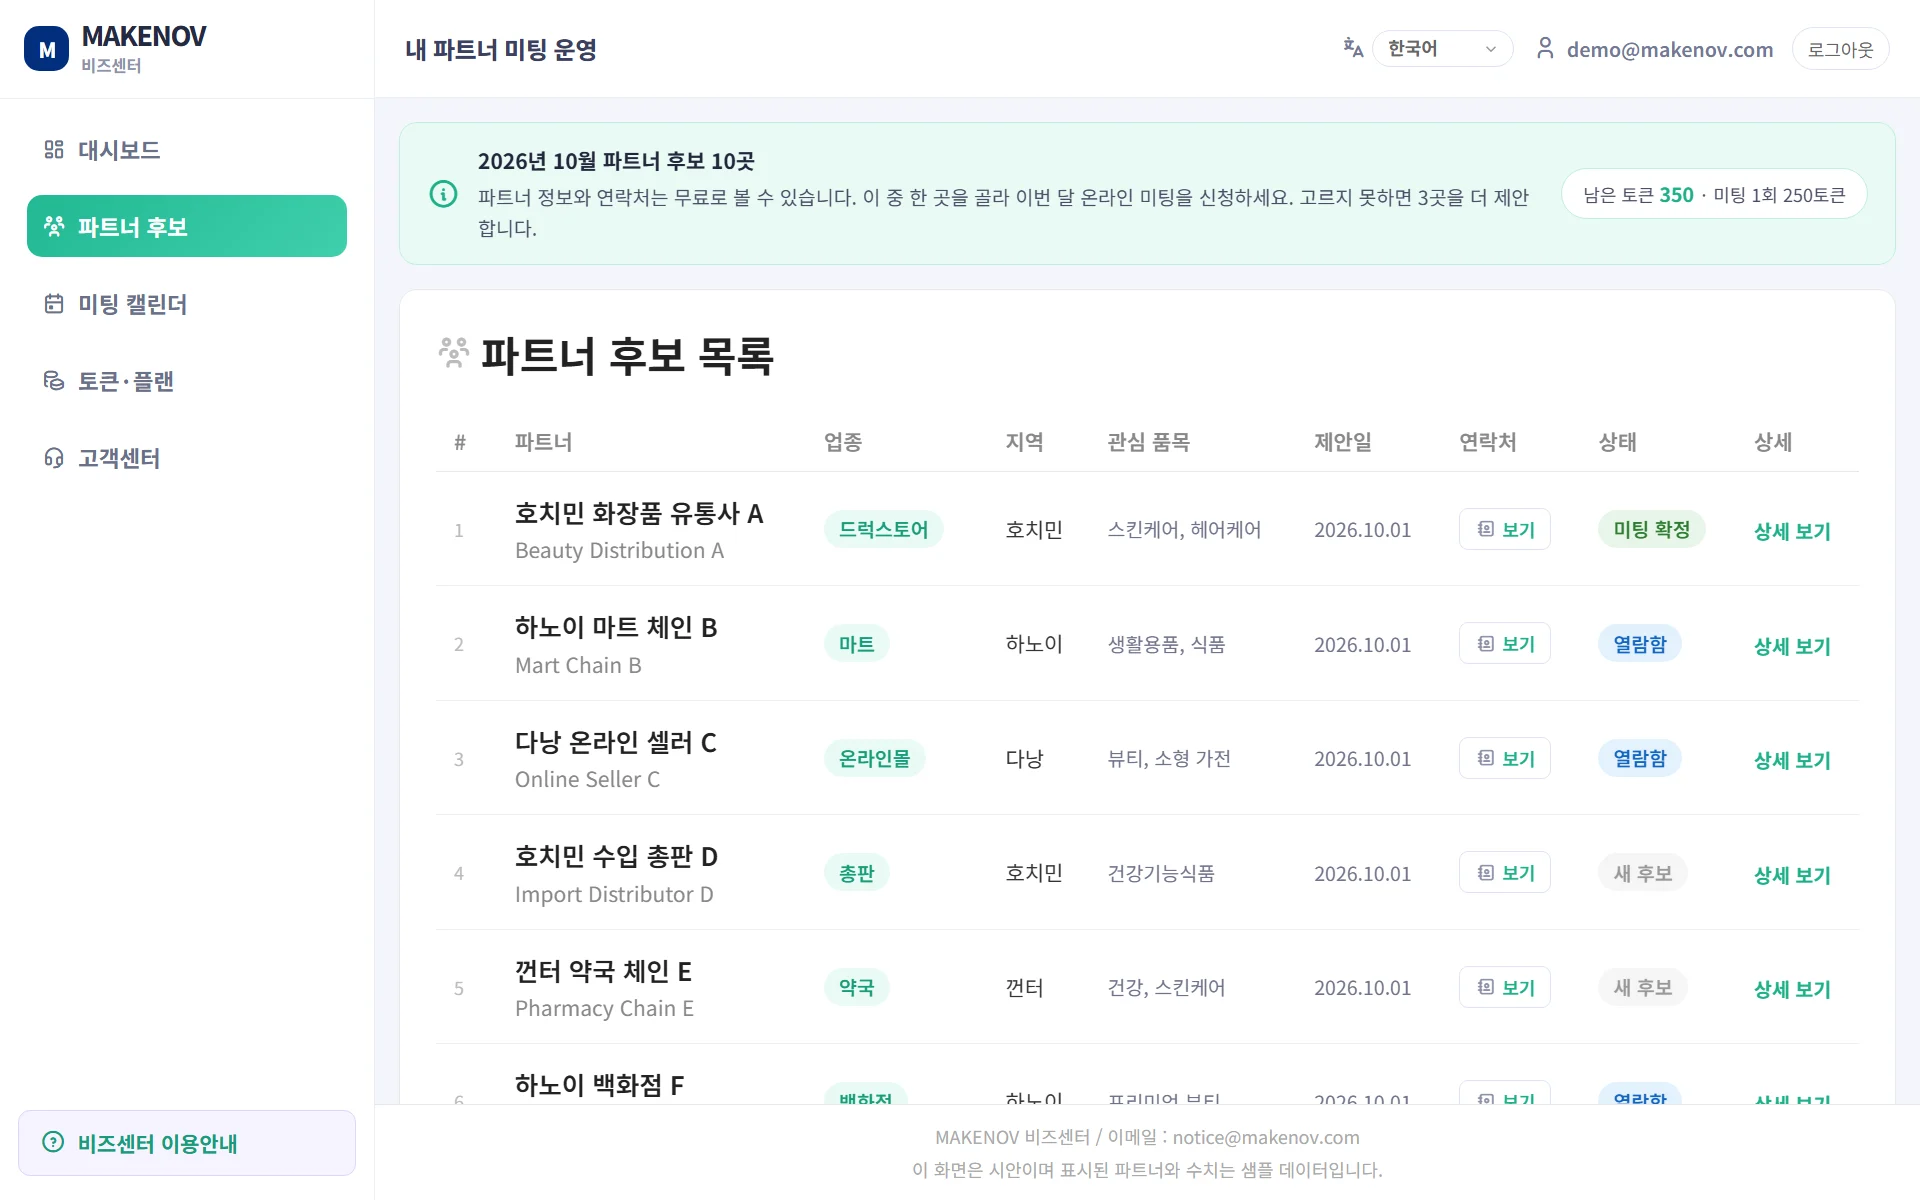
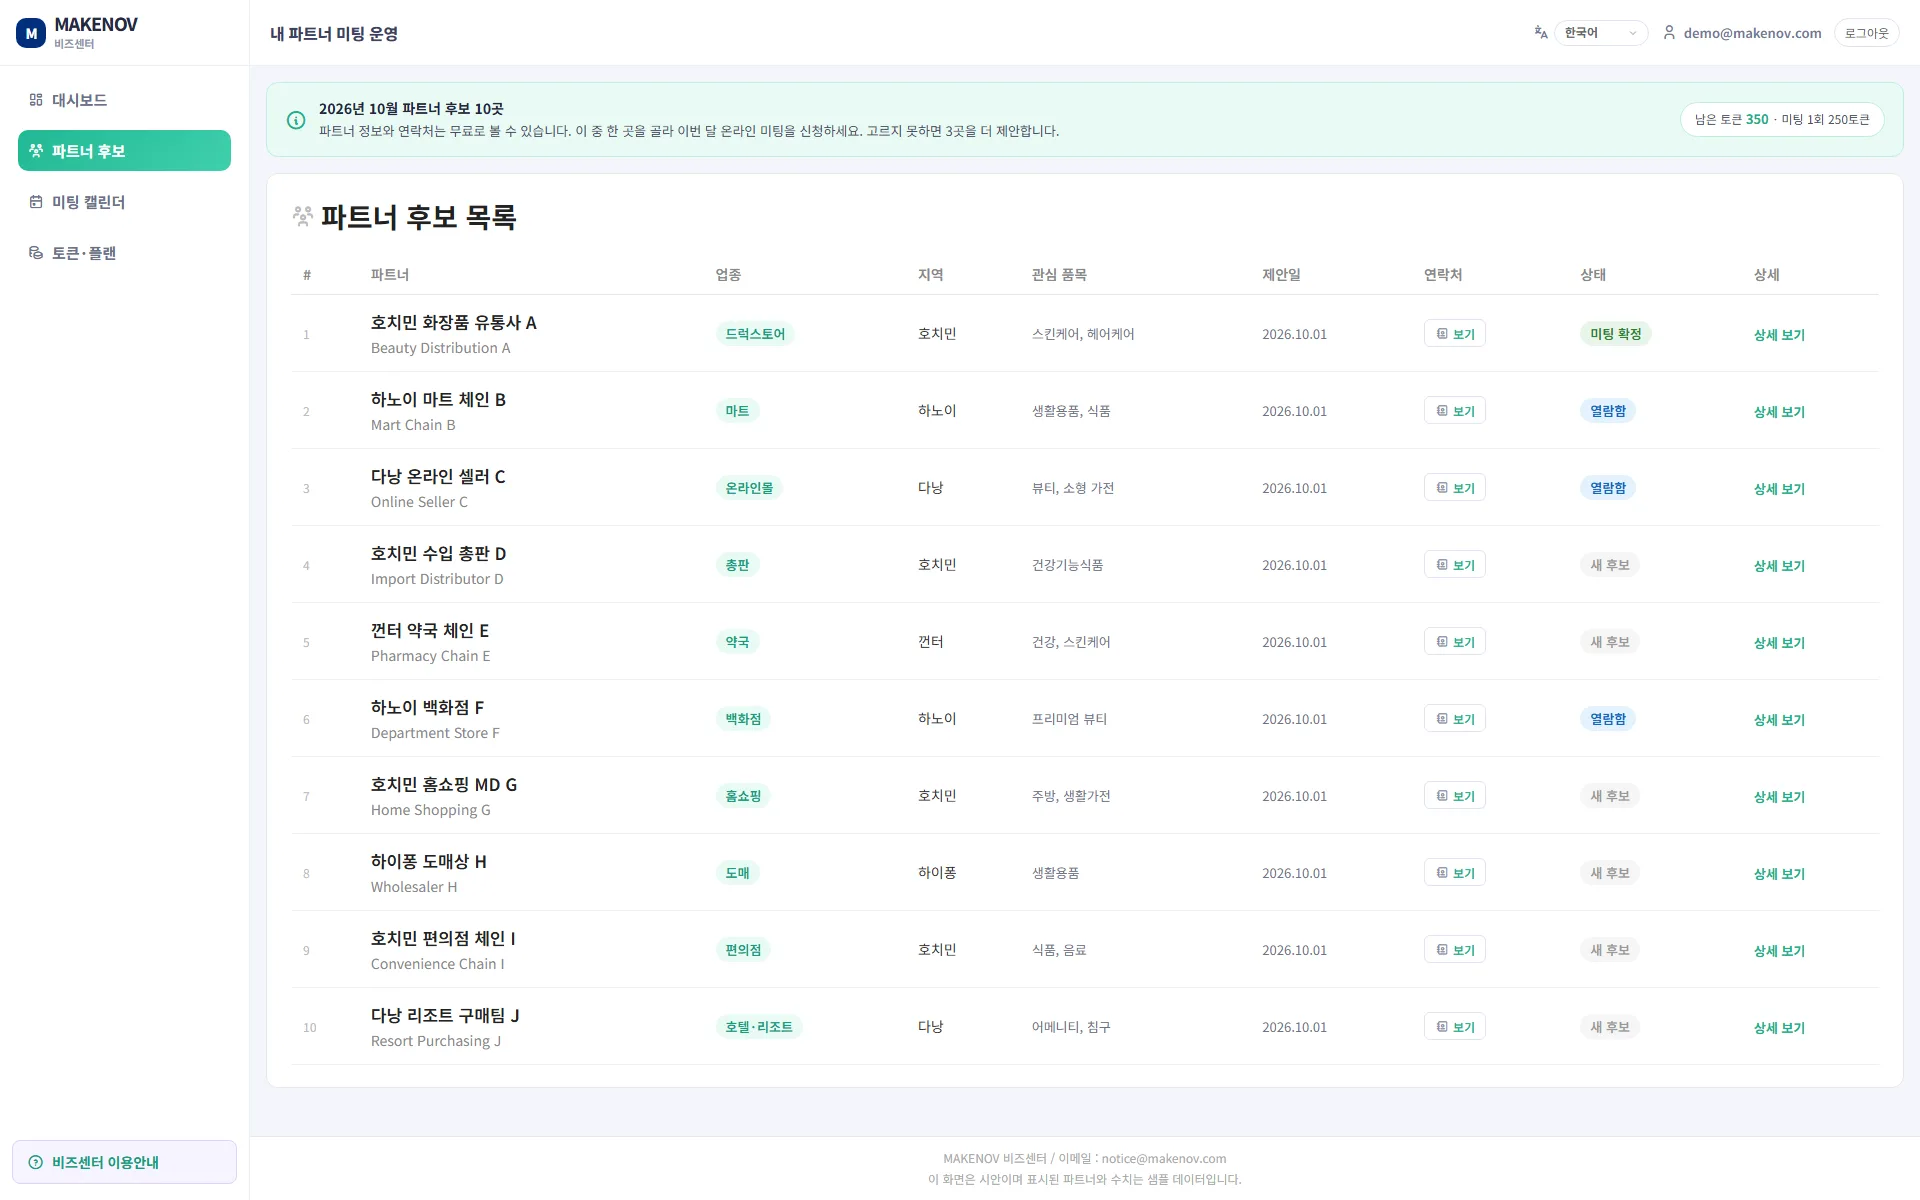
랜딩 연결 방식 섹션 추가, 비즈센터 화면 캡처 최신화

diff --git a/biz/index.html b/biz/index.html
@@ -141,7 +141,33 @@ section{scroll-margin-top:72px}
 .pane .shot{border-radius:16px;overflow:hidden;border:1px solid var(--line);box-shadow:0 18px 40px rgba(4,20,63,.08)}
 .pane .shot img{width:100%;aspect-ratio:16/10;object-fit:cover;object-position:top left}
 
-/* 4. 비즈센터 */
+/* 4. 연결 방식 */
+.sys{padding:130px 0 0;background:linear-gradient(180deg,#fff 0%,#f3fbf8 55%,#fff 100%);overflow:hidden}
+.sys-head{text-align:center;max-width:780px;margin:0 auto}
+.sys-head h2{font-size:56px;line-height:1.22;font-weight:800;letter-spacing:-.045em;margin-top:16px}
+.sys-head h2 em{font-style:normal;background:linear-gradient(90deg,var(--pri-d),var(--navy));-webkit-background-clip:text;background-clip:text;color:transparent}
+.sys-head p{font-size:19px;line-height:1.7;color:var(--body);margin-top:20px}
+.flowline{list-style:none;display:grid;grid-template-columns:repeat(4,1fr);gap:20px;margin-top:72px;position:relative}
+.flowline::before{content:"";position:absolute;left:12%;right:12%;top:63px;height:2px;background:repeating-linear-gradient(90deg,var(--pri) 0 10px,transparent 10px 18px);background-size:36px 2px;animation:flow 1.2s linear infinite;opacity:.6}
+@keyframes flow{to{background-position:36px 0}}
+.flowline li{position:relative;background:#fff;border:1px solid var(--line);border-radius:24px;padding:28px 26px 30px;text-align:center;box-shadow:0 14px 34px rgba(4,20,63,.05);transition:transform .2s}
+.flowline li:hover{transform:translateY(-4px)}
+.flowline .no{display:block;font-size:13px;font-weight:800;color:var(--muted);letter-spacing:.06em}
+.flowline .ic{width:64px;height:64px;margin:14px auto 0;border-radius:20px;background:var(--pri-soft);color:var(--pri-d);display:flex;align-items:center;justify-content:center;font-size:30px;position:relative;z-index:1}
+.flowline b{display:block;font-size:22px;font-weight:800;letter-spacing:-.02em;margin-top:20px}
+.flowline p{font-size:15.5px;line-height:1.7;color:var(--body);margin-top:10px}
+.flowline li.end{background:linear-gradient(160deg,var(--navy),var(--navy-dd));border-color:transparent;color:#fff;box-shadow:0 24px 50px rgba(4,20,63,.25)}
+.flowline li.end .no{color:var(--mint)}
+.flowline li.end .ic{background:var(--mint);color:var(--navy-dd)}
+.flowline li.end p{color:rgba(255,255,255,.75)}
+.sys-shot{position:relative;max-width:1040px;margin:80px auto 0;border-radius:20px 20px 0 0;overflow:hidden;background:#fff;border:1px solid var(--line);border-bottom:0;box-shadow:0 -10px 60px rgba(4,20,63,.12)}
+.sys-shot .bar{height:36px;background:#eef1f6;display:flex;align-items:center;gap:6px;padding:0 14px}
+.sys-shot .bar i{width:10px;height:10px;border-radius:50%;background:#d5dae3}
+.sys-shot .bar span{margin-left:12px;font-size:12px;color:#8a8f9c;background:#fff;border-radius:6px;padding:3px 12px}
+.sys-shot img{width:100%;aspect-ratio:16/8;object-fit:cover;object-position:top}
+.sys-shot .cap{position:absolute;left:50%;bottom:28px;transform:translateX(-50%);display:flex;align-items:center;gap:8px;background:var(--navy-dd);color:#fff;font-size:15px;font-weight:700;border-radius:999px;padding:12px 22px;box-shadow:0 12px 30px rgba(4,20,63,.3);white-space:nowrap}
+.sys-shot .cap i{color:var(--mint);font-size:18px}
+/* 4. 비즈센터 (구) */
 .split{display:grid;grid-template-columns:1fr 1.25fr;gap:64px;align-items:center}
 .split + .split{margin-top:96px}
 .split.rev .txt{order:2}
@@ -280,6 +306,7 @@ body.mopen .mnav{opacity:1;visibility:visible;transform:none}
 @media(max-width:1180px){.hd .slg{display:none}}
 @media(max-width:1080px){.hd nav{display:none}}
 @media(max-width:860px){
+  .sys{padding-top:80px}.sys-head h2{font-size:34px}.sys-head p{font-size:16px}.flowline{grid-template-columns:1fr 1fr;gap:12px;margin-top:44px}.flowline::before{display:none}.flowline li{padding:22px 16px}.flowline b{font-size:18px}.flowline p{font-size:14px}.sys-shot{margin-top:48px}.sys-shot .cap{font-size:13px;bottom:16px;padding:10px 16px}
   .kf{padding:80px 0}.kf-in{grid-template-columns:1fr;gap:40px}.kf h2{font-size:30px}.kf-logo{height:30px}.kf-facts li{flex-direction:column;gap:4px}.kf-facts span{text-align:left}.kf-gal{grid-template-rows:180px 130px 130px}
   .mkt{grid-template-columns:1fr;gap:24px}.mcard{padding:32px 24px}.mcard h3{font-size:26px}.sols h4{font-size:19px}
   .nums-h{font-size:26px;margin-bottom:36px}
@@ -443,11 +470,23 @@ body.mopen .mnav{opacity:1;visibility:visible;transform:none}
 </section>
 
 <!-- 4. 비즈센터 -->
-<section class="sec" id="bizcenter">
+<section class="sys" id="bizcenter">
   <div class="wrap">
-    <div class="split">
-      <div class="txt"><div class="kick">비즈센터</div><h3>누구를 만났고<br>다음엔 뭘 할지 다 있습니다</h3><p>파트너 후보, 미팅 일정, 회의록, 남은 토큰을 한곳에서 봅니다. 메일과 메신저를 뒤질 필요가 없습니다.</p></div>
-      <div class="shot"><img src="img/shot/index.webp" alt="비즈센터 대시보드"></div>
+    <div class="sys-head">
+      <div class="kick">메이크노브 연결 방식</div>
+      <h2>해외영업 고민,<br><em>연결</em>까지 한 번에 끝냅니다</h2>
+      <p>파트너를 찾는 일부터 실제로 만나게 하는 일까지, 메이크노브가 순서대로 이어 드립니다.</p>
+    </div>
+    <ol class="flowline">
+      <li><span class="no">01</span><span class="ic"><i class="ti ti-database"></i></span><b>파트너 풀</b><p>베트남 현지 파트너 정보가 메이크노브에 쌓여 있습니다.</p></li>
+      <li><span class="no">02</span><span class="ic"><i class="ti ti-sparkles"></i></span><b>AI 자동 매칭</b><p>우리 제품에 맞는 파트너를 AI가 자동으로 골라냅니다.</p></li>
+      <li><span class="no">03</span><span class="ic"><i class="ti ti-send"></i></span><b>파트너에게 피칭</b><p>골라낸 파트너에게 우리 제품을 먼저 제안합니다.</p></li>
+      <li class="end"><span class="no">04</span><span class="ic"><i class="ti ti-heart-handshake"></i></span><b>로컬 마케터가 연결</b><p>현지 마케터가 정리하고 만나게 해서 진짜 연결을 만듭니다.</p></li>
+    </ol>
+    <div class="sys-shot">
+      <div class="bar"><i></i><i></i><i></i><span>biz.makenov.com</span></div>
+      <img src="img/shot/index.webp" alt="비즈센터 대시보드" loading="lazy">
+      <div class="cap"><i class="ti ti-layout-dashboard"></i>모든 과정은 비즈센터에서 한눈에 봅니다</div>
     </div>
   </div>
 </section>
